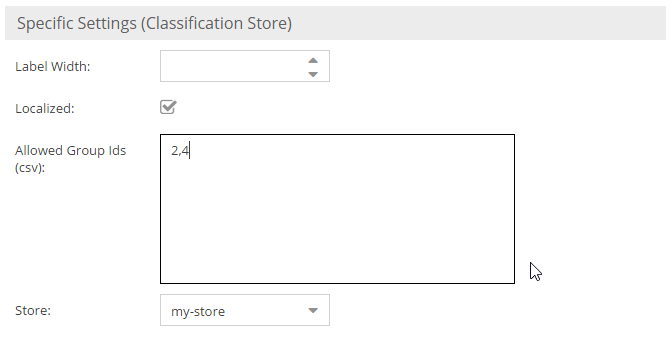
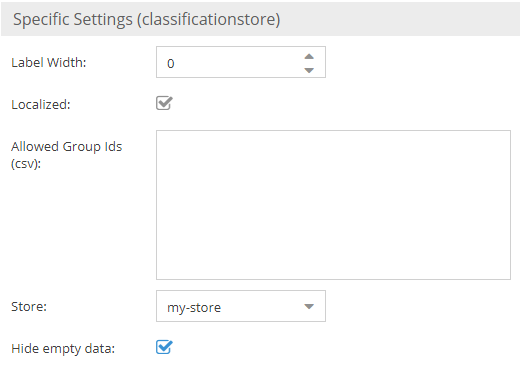
[ClassificationStore] allow to use only individual keys from a group … (#3466)

diff --git a/bundles/AdminBundle/Resources/public/js/pimcore/object/tags/classificationstore.js b/bundles/AdminBundle/Resources/public/js/pimcore/object/tags/classificationstore.js
@@ -194,10 +194,8 @@ pimcore.object.tags.classificationstore = Class.create(pimcore.object.tags.abstr
                 }
 
                 var item = new Ext.Panel({
-                    border:false,
-                    //autoScroll: true,
+                    border: false,
                     height: 'auto',
-                    //autoHeight: true,
                     padding: "10px",
                     deferredRender: false,
                     hideMode: "offsets",
@@ -406,20 +404,25 @@ pimcore.object.tags.classificationstore = Class.create(pimcore.object.tags.abstr
         return isInvalid;
     },
 
-    createGroupFieldset: function(language, group, groupedChildItems, cls) {
+    createGroupFieldset: function (language, group, groupedChildItems, isNew) {
         var groupId = group.id;
         var groupTitle = group.description ? group.name + " - " + group.description : group.name;
+        var invisibleItems = [];
 
-        var editable =  !this.fieldConfig.noteditable &&
+        var editable = !this.fieldConfig.noteditable &&
             (pimcore.currentuser.admin
-            || this.fieldConfig.permissionEdit === undefined
-            || this.fieldConfig.permissionEdit.length == 0
-            || in_array(this.currentLanguage, this.fieldConfig.permissionEdit));
+                || this.fieldConfig.permissionEdit === undefined
+                || this.fieldConfig.permissionEdit.length == 0
+                || in_array(this.currentLanguage, this.fieldConfig.permissionEdit));
 
 
         var keys = group.keys;
+        var expandable = false;
+
+        var index = -1;
 
         for (var k = 0; k < keys.length; k++) {
+            index++;
             var key = keys[k];
             var definition = key.definition;
             definition.csKeyId = key.id;
@@ -427,7 +430,26 @@ pimcore.object.tags.classificationstore = Class.create(pimcore.object.tags.abstr
             if (this.fieldConfig.labelWidth) {
                 definition.labelWidth = this.fieldConfig.labelWidth;
             }
+
+            var visible = true;
+
+            if (this.fieldConfig.hideEmptyData && !isNew) {
+                // check if we should hide the feature because it is empty but only if the group hasn't been just added added via the dialog
+                if (!this.data[language] || !this.data[language][group.id] || typeof this.data[language][group.id][key.id] === "undefined") {
+                    expandable = true;
+
+                    invisibleItems.push({
+                        "definition": definition,
+                        "index": index
+                    });
+
+                    continue;
+                }
+            }
+
             var childItem = this.getRecursiveLayout(definition, !editable);
+            // index++;
+
             groupedChildItems.push(childItem);
         }
 
@@ -438,8 +460,9 @@ pimcore.object.tags.classificationstore = Class.create(pimcore.object.tags.abstr
             collapsible: true
         };
 
+        var tools = [];
         if (!this.fieldConfig.noteditable) {
-            config.tools = [
+            tools.push(
                 {
                     type: 'close',
                     qtip: t('remove_group'),
@@ -447,15 +470,80 @@ pimcore.object.tags.classificationstore = Class.create(pimcore.object.tags.abstr
                         this.deleteGroup(groupId);
                     }.bind(this)
 
-                }];
-        }
-        if (cls) {
-            config.cls = cls;
+                });
         }
 
-        var fieldset =  new Ext.create('pimcore.FieldSetTools', config);
+        if (expandable) {
+            var expandableId = Ext.id();
+            var expandingId = Ext.id();
+            tools.push(
+                {
+                    type: 'expand',
+                    qtip: t('expand_cs_group'),
+                    id: expandableId,
+                    handler: function (editable, groupId, language, e, el, legend, tool) {
+                        if (tool.__isExpanding) {
+                            return;
+                        }
+                        tool.__isExpanding = true;
+                        var invisibleItems = tool.__invisibleItems;
+                        if (!invisibleItems) {
+                            return;
+                        }
 
-        this.groupElements[language][groupId]  = fieldset;
+                        tool.el.dom.classList.add('x-tool-expanding');
+
+                        window.setTimeout(function (editable, groupId, language, e, el, legend, tool) {
+                            Ext.suspendLayouts();
+
+                            var fieldset = this.groupElements[language][groupId];
+
+                            var currentLanguage = this.currentLanguage;
+                            // switch the language before call getRecursiveLayout (getDataForField)
+                            this.currentLanguage = language;
+
+                            for (var i = 0; i < invisibleItems.length; i++) {
+                                var item = invisibleItems[i];
+                                var definition = item["definition"];
+                                var index = item["index"];
+                                var childItem = this.getRecursiveLayout(definition, !editable);
+                                fieldset.insert(index, childItem);
+                            }
+
+                            this.currentLanguage = currentLanguage;
+                            Ext.resumeLayouts(true);
+                            tool.hide();
+
+                            // not needed anymore
+                            delete tool.__invisibleItems;
+                            this.object.hotUpdateInitData();
+                        }.bind(this, editable, groupId, language, e, el, legend, tool), 0);
+
+
+                    }.bind(this, editable, groupId, language)
+
+                });
+
+
+        }
+
+        if (tools) {
+            config.tools = tools;
+        }
+
+        if (isNew) {
+            config.cls = "pimcore_new_cs_group";
+        }
+
+        var fieldset = new Ext.create('pimcore.FieldSetTools', config);
+
+        if (expandable) {
+            var expandableTool = Ext.getCmp(expandableId);
+            expandableTool.__invisibleItems = invisibleItems;
+
+        }
+
+        this.groupElements[language][groupId] = fieldset;
         return fieldset;
     },
 
@@ -527,7 +615,7 @@ pimcore.object.tags.classificationstore = Class.create(pimcore.object.tags.abstr
                     addedGroups[groupId] = true;
                     this.groupCollectionMapping[groupId] = group.collectionId;
 
-                    var fieldset = this.createGroupFieldset(currentLanguage, group, groupedChildItems, "pimcore_new_cs_group");
+                    var fieldset = this.createGroupFieldset(currentLanguage, group, groupedChildItems, true);
                     var panel = this.languagePanels[currentLanguage];
 
                     panel.add(fieldset);

diff --git a/bundles/AdminBundle/Resources/public/js/pimcore/overrides.js b/bundles/AdminBundle/Resources/public/js/pimcore/overrides.js
@@ -61,38 +61,44 @@ Ext.define('pimcore.FieldSetTools', {
         var result = this.callSuper(arguments);
 
         if (me.config.tools && me.config.tools.length > 0) {
-            this.createCloseCmp(result);
+            for (var i = 0; i < me.config.tools.length; i++) {
+                var tool = me.config.tools[i];
+                this.createToolCmp(tool, result);
+            }
         }
         return result;
 
     },
 
 
-    createCloseCmp: function(result) {
+    createToolCmp: function(tool, result) {
         var me = this;
-        var tool = me.config.tools[0];
-
+        var cls = me.baseCls + '-header-tool-default ' + me.baseCls + '-header-tool-right';
+        if (tool['cls']) {
+            cls = cls + ' ' + tool['cls'];
+        }
         var cfg = {
-            type: 'close',
+            type: tool['type'],
             html: me.title,
             ui: me.ui,
             tooltip: tool.qtip,
             handler: tool.handler,
-            cls: me.baseCls + '-header-tool-default ' + me.baseCls + '-header-tool-right',
-            id: me.id + '-legendTitle2',
+            hidden: tool.hidden,
+            cls: cls,
             ariaRole: 'checkbox',
             ariaRenderAttributes: {
                 'aria-checked': !me.collapsed
             }
         };
 
-        me.titleCmp2 = new Ext.panel.Tool(cfg);
-        result.add(me.titleCmp2);
-        return me.titleCmp2;
-        result.add(closeCmp);
-        return closeCmp;
-    },
+        if (tool['id']) {
+            cfg['id'] = tool['id'];
+        }
 
+        var cmp = new Ext.panel.Tool(cfg);
+        result.add(cmp);
+        return result;
+    },
 });
 
 

diff --git a/bundles/AdminBundle/Resources/public/js/pimcore/object/classes/data/classificationstore.js b/bundles/AdminBundle/Resources/public/js/pimcore/object/classes/data/classificationstore.js
@@ -77,8 +77,6 @@ pimcore.object.classes.data.classificationstore = Class.create(pimcore.object.cl
             value: this.datax.allowedGroupIds
         });
 
-
-
         var  store = new Ext.data.Store({
             proxy: {
                 type: 'ajax',
@@ -104,6 +102,13 @@ pimcore.object.classes.data.classificationstore = Class.create(pimcore.object.cl
 
         this.specificPanel.add(this.storeCombo);
 
+        this.specificPanel.add({
+            xtype: "checkbox",
+            name: "hideEmptyData",
+            fieldLabel: t("hide_empty_data"),
+            checked: this.datax.hideEmptyData
+
+        });
 
         this.layout.on("render", this.layoutRendered.bind(this));
 

diff --git a/bundles/AdminBundle/Resources/public/css/admin.css b/bundles/AdminBundle/Resources/public/css/admin.css
@@ -1272,6 +1272,23 @@ span.warning {
     color: #919191;
 }
 
+.x-fieldset-header-tool-right .x-tool-expand {
+    font: 16px/1 FontAwesome;
+    background: none;
+    color: #008d4c;
+    width: 30px;
+}
+
+.x-fieldset-header-tool-right.x-tool-expanding .x-tool-expand {
+    color: #ff9933;
+
+}
+
+/* http://localhost:1843/classic/theme-neutral/sass/etc/mixins/font-icon.scss:125 */
+.x-tool-expand:before {
+    content: "\f205";
+}
+
 .pimcore_pagingtoolbar_container {
     display: inline-block;
     white-space: nowrap;

diff --git a/bundles/AdminBundle/Resources/public/js/pimcore/element/abstract.js b/bundles/AdminBundle/Resources/public/js/pimcore/element/abstract.js
@@ -128,6 +128,17 @@ pimcore.element.abstract = Class.create({
         }
     },
 
+    hotUpdateInitData: function() {
+        this.changeDetectorInitData = {};
+        this.changeDetectorInitData = this.getSaveData();
+
+        var keys = Object.keys(liveData);
+
+        for (var i = 0; i < keys.length; i++) {
+            this.changeDetectorInitData[keys[i]] = liveData[keys[i]];
+        }
+    },
+
     checkForChanges: function () {
         // tab was closed before first cycle
         // stop change detector again

diff --git a/models/DataObject/ClassDefinition/Data/Classificationstore.php b/models/DataObject/ClassDefinition/Data/Classificationstore.php
@@ -93,6 +93,11 @@ class Classificationstore extends Model\DataObject\ClassDefinition\Data
     public $storeId;
 
     /**
+     * @var bool
+     */
+    public $hideEmptyData;
+
+    /**
      * contains further localized field definitions if there are more than one localized fields in on class
      *
      * @var array
@@ -1329,4 +1334,26 @@ class Classificationstore extends Model\DataObject\ClassDefinition\Data
 
         return $validLanguages;
     }
+
+
+    /**
+     * @return bool
+     */
+    public function getHideEmptyData()
+    {
+        return $this->hideEmptyData;
+    }
+
+
+    /**
+     * @param $hideEmptyData bool
+     * @return $this
+     */
+    public function setHideEmptyData($hideEmptyData)
+    {
+        $this->hideEmptyData = (bool) $hideEmptyData;
+        return $this;
+    }
+
+
 }

diff --git a/bundles/AdminBundle/Controller/Admin/DataObject/ClassificationstoreController.php b/bundles/AdminBundle/Controller/Admin/DataObject/ClassificationstoreController.php
@@ -1168,7 +1168,7 @@ class ClassificationstoreController extends AdminController
 
         $list = new Classificationstore\KeyConfig\Listing();
 
-        if ($limit > 0) {
+        if ($limit > 0 && !$request->get('groupIds') && !$request->get('keyIds')) {
             $list->setLimit($limit);
         }
         $list->setOffset($start);

diff --git a/doc/Development_Documentation/05_Objects/01_Object_Classes/01_Data_Types/13_Classification_Store.md b/doc/Development_Documentation/05_Objects/01_Object_Classes/01_Data_Types/13_Classification_Store.md
@@ -69,6 +69,7 @@ defined.
 * Allowed groups can be restricted by providing a comma-separated list of group ids
 * There can be more than one classification store field 
 * Configure the group sort order for the object editor, groups with lower values are listed first
+* Optionally you can decide whether you want to see all keys or just the non-empty ones.
 
 ![Class definitaion with Classification Store](../../../img/Objects_ClassificationStore_classes.png)
 
